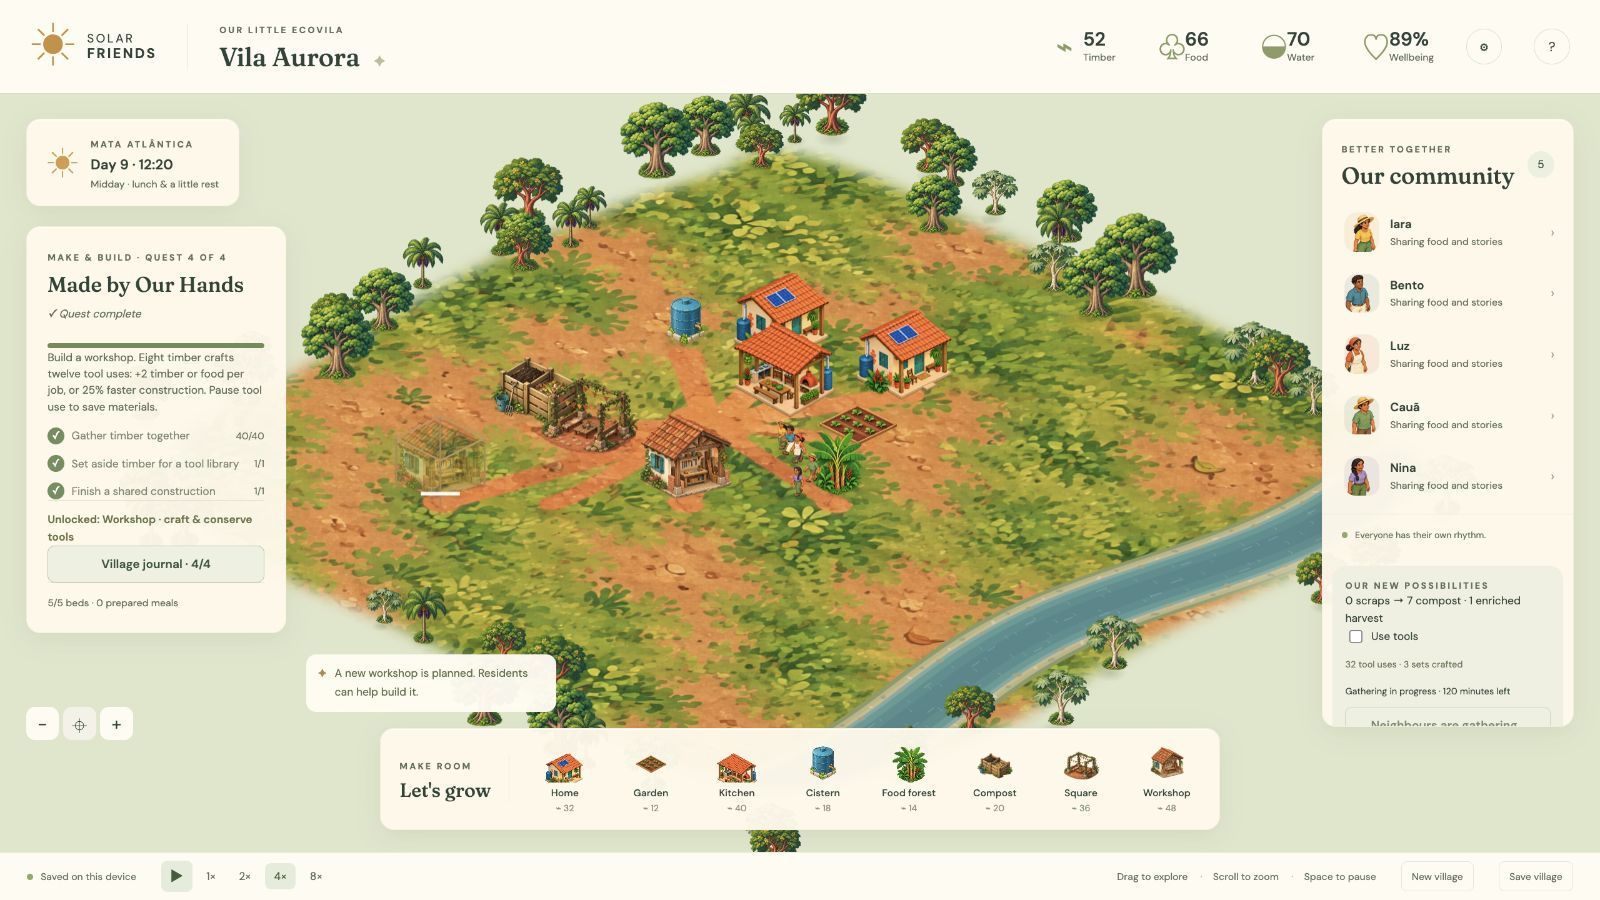
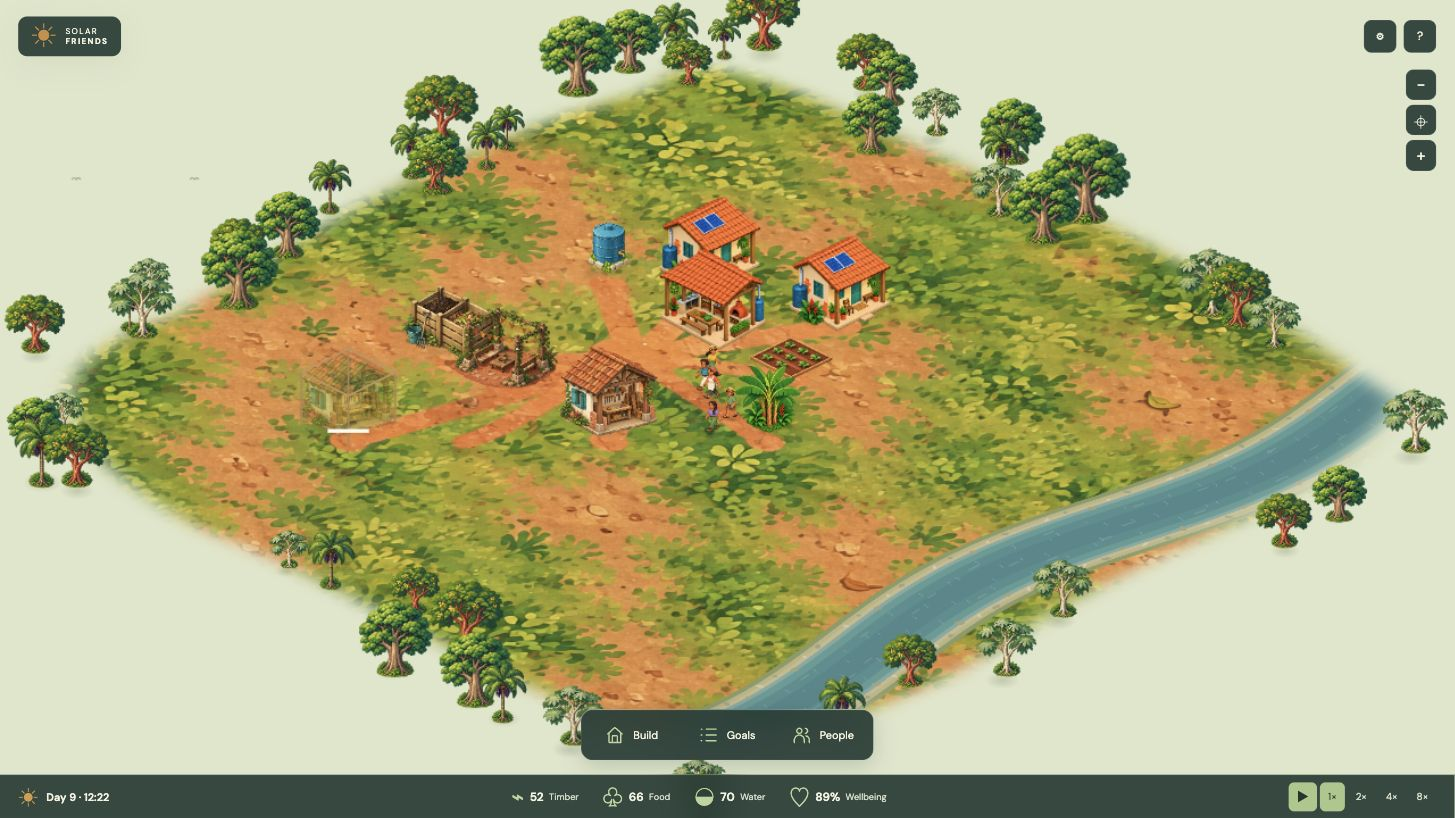
Polish HUD navigation and capture the simplified interface

diff --git a/web/index.html b/web/index.html
@@ -95,9 +95,9 @@
         <div id="tools"></div>
       </nav>
       <nav class="hud-dock" aria-label="Village controls">
-        <button data-panel="build-panel" aria-controls="build-panel" aria-expanded="false"><span aria-hidden="true">⌂</span> Build</button>
-        <button data-panel="goals-panel" aria-controls="goals-panel" aria-expanded="false"><span aria-hidden="true">☷</span> Goals</button>
-        <button data-panel="community-panel" aria-controls="community-panel" aria-expanded="false"><span aria-hidden="true">♧</span> People</button>
+        <button data-panel="build-panel" aria-controls="build-panel" aria-expanded="false"><svg aria-hidden="true" viewBox="0 0 24 24" fill="none" stroke="currentColor" stroke-width="1.7" stroke-linecap="round" stroke-linejoin="round"><path d="m3 11 9-8 9 8M5 10v11h14V10M9 21v-8h6v8"/></svg> Build</button>
+        <button data-panel="goals-panel" aria-controls="goals-panel" aria-expanded="false"><svg aria-hidden="true" viewBox="0 0 24 24" fill="none" stroke="currentColor" stroke-width="1.7" stroke-linecap="round" stroke-linejoin="round"><path d="M9 5h12M9 12h12M9 19h12M3 5h1M3 12h1M3 19h1"/></svg> Goals</button>
+        <button data-panel="community-panel" aria-controls="community-panel" aria-expanded="false"><svg aria-hidden="true" viewBox="0 0 24 24" fill="none" stroke="currentColor" stroke-width="1.7" stroke-linecap="round" stroke-linejoin="round"><circle cx="9" cy="7" r="3"/><path d="M3 21v-3a6 6 0 0 1 12 0v3M16 4a3 3 0 0 1 0 6M17 13a5 5 0 0 1 4 5v3"/></svg> People</button>
       </nav>
       <div id="toast" role="status" hidden></div>
     </main>
@@ -161,13 +161,13 @@
       <p>Five residents. A patch of Brazilian earth. A shared beginning.</p>
       <ol>
         <li>
-          <b>Start with the essentials.</b> Follow A Shared Beginning in the
+          <b>Start with the essentials.</b> Open Goals and follow A Shared Beginning in the
           village journal: a cistern, homes, a garden and a shared kitchen.
           Choose a building, then click the clearing. Residents construct it
           during working hours.
         </li>
         <li>
-          <b>Get to know your neighbours.</b> Select a resident to see their
+          <b>Get to know your neighbours.</b> Open People or select a resident to see their
           needs and request help. Explain why it matters if they hesitate;
           exhausted people still need rest.
         </li>
@@ -181,8 +181,8 @@
       </ol>
       <p class="hint">
         A full day takes eight minutes at 1×. Pause and change speed at the
-        bottom. Escape cancels building. Your village autosaves locally; Save
-        village saves immediately.
+        bottom. Escape cancels building. Your village autosaves locally; open
+        Settings to save immediately or start a new village.
       </p>
       <button id="start-playing" class="primary">
         Let's grow together <span>→</span>

diff --git a/web/hud.css b/web/hud.css
@@ -24,9 +24,9 @@ footer .season { position: static; display: flex; padding: 0; gap: 9px; backgrou
 .time-controls button.active { background: #a9c789; color: #20382a; }
 .hud-dock { position: absolute; z-index: 6; bottom: 64px; left: 50%; transform: translateX(-50%); display: flex; gap: 5px; padding: 5px; border: 1px solid var(--hud-line); border-radius: 13px; background: var(--hud); box-shadow: 0 6px 24px #152b3430; backdrop-filter: blur(16px); }
 .hud-dock button { display: flex; align-items: center; justify-content: center; gap: 9px; min-width: 100px; height: 44px; padding: 0 16px; border-radius: 8px; background: transparent; color: var(--hud-text); font-size: 12px; }
-.hud-dock button span { font-size: 23px; color: #bdd49b; line-height: 1; }
+.hud-dock button svg { width: 22px; height: 22px; flex: none; color: #bdd49b; line-height: 1; }
 .hud-dock button[aria-expanded="true"] { background: #a9c789; color: #20382a; }
-.hud-dock button[aria-expanded="true"] span { color: inherit; }
+.hud-dock button[aria-expanded="true"] svg { color: inherit; }
 .panel-close { position: absolute; right: 10px; top: 8px; width: 32px; height: 32px; border-radius: 7px; background: transparent; font-size: 22px; z-index: 1; }
 .chapter, .community, .person { top: auto; bottom: 132px; left: auto; right: 20px; width: 300px; max-height: calc(100dvh - 216px); background: var(--paper); z-index: 5; }
 .chapter, .person { padding: 22px; }

diff --git a/web/main.js b/web/main.js
@@ -874,6 +874,7 @@ function setTool(kind) {
     selected = null;
     $("#build-panel").hidden = false;
     $('[data-panel="build-panel"]').setAttribute("aria-expanded", "true");
+    $(`[data-kind="${kind}"]`).focus();
   }
   tool = tool === kind ? null : kind;
   $("#placement").hidden = !tool;
